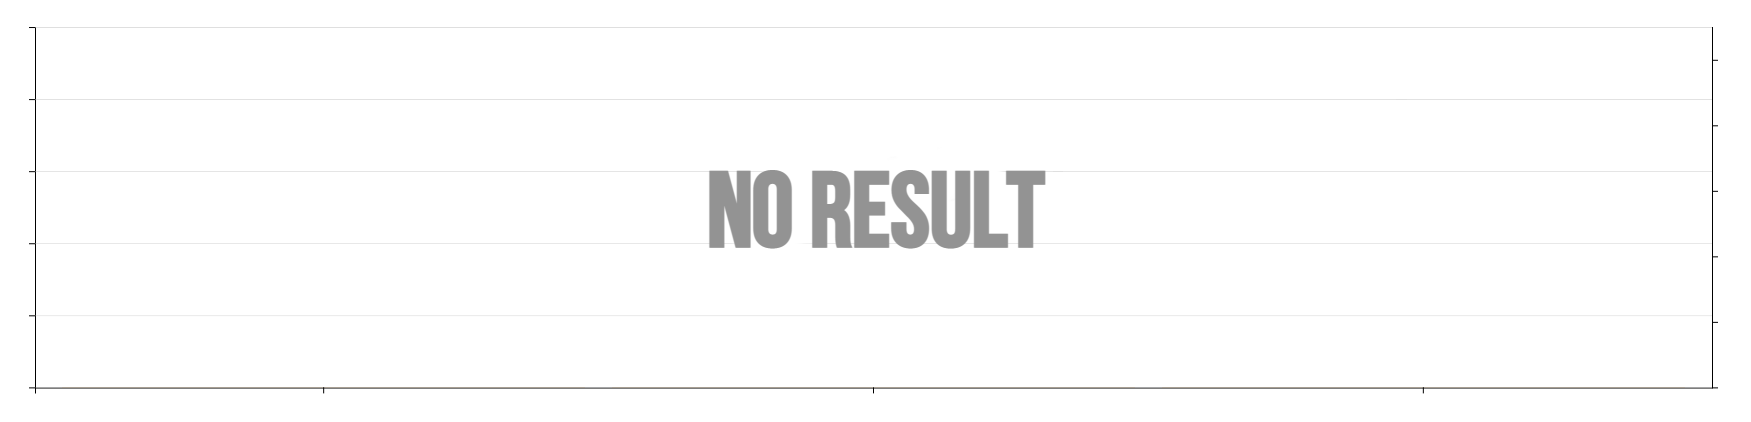
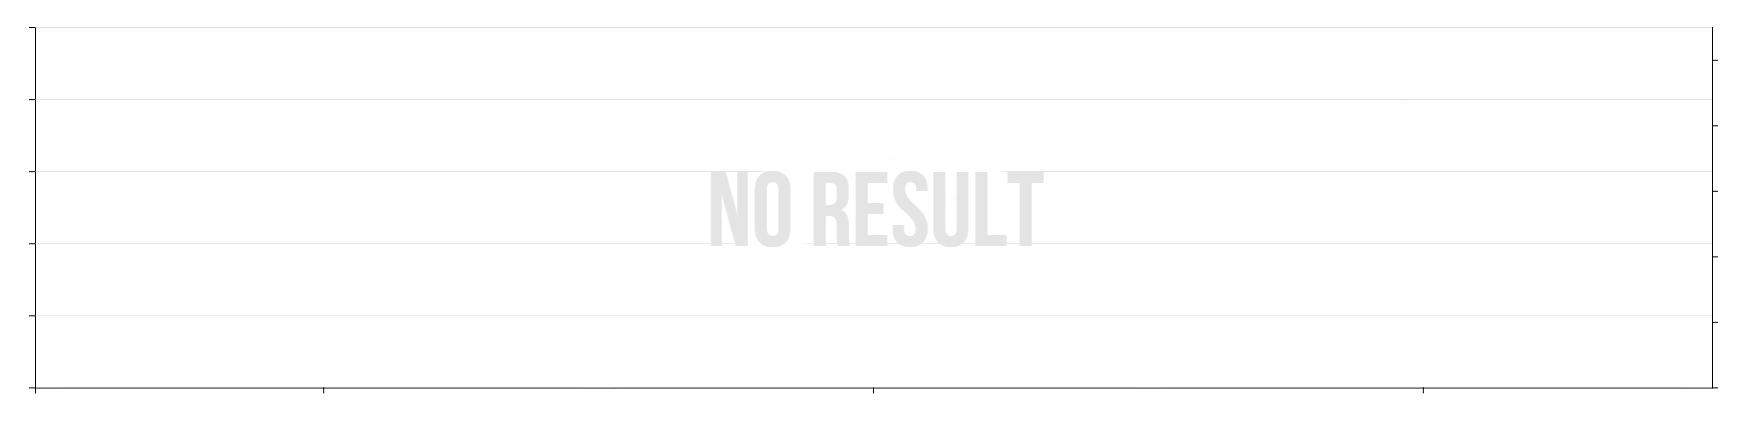
201221 16:14 sdb

Changed region(s): [[0.4009, 0.4005, 0.6168, 0.5853]]

diff --git a/nlp/src/main/resources/static/js/nlp.js b/nlp/src/main/resources/static/js/nlp.js
@@ -1005,7 +1005,7 @@ function makeKeywordBarPlot(data, divID, nCutoff) {
     else {
         var keywordBarContents = `
                                     <div style="text-align:center;">
-                                        <img src="/img/no_keyword2.png" style="max-width:100%; max-height:80%"/>
+                                        <img src="/img/no_keyword4.png" style="max-width:100%; max-height:80%"/>
                                     </div>
                                  `;
         document.getElementById(divID).innerHTML = keywordBarContents;
